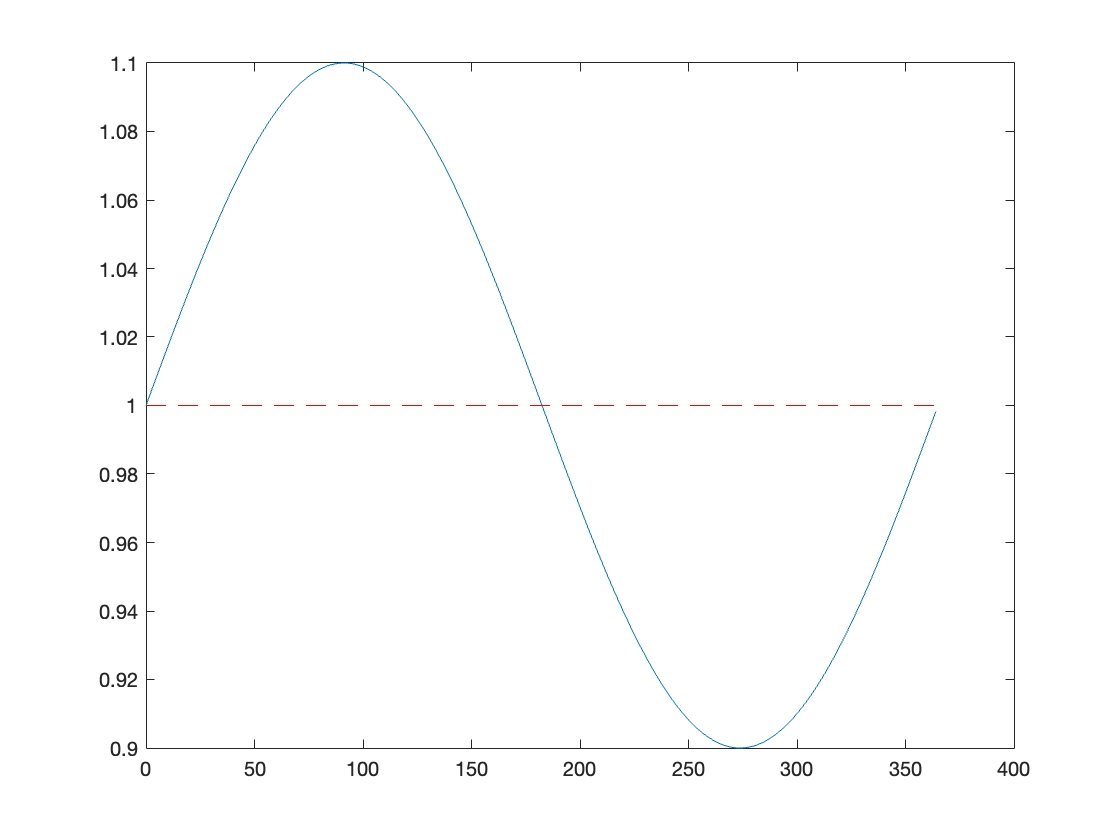
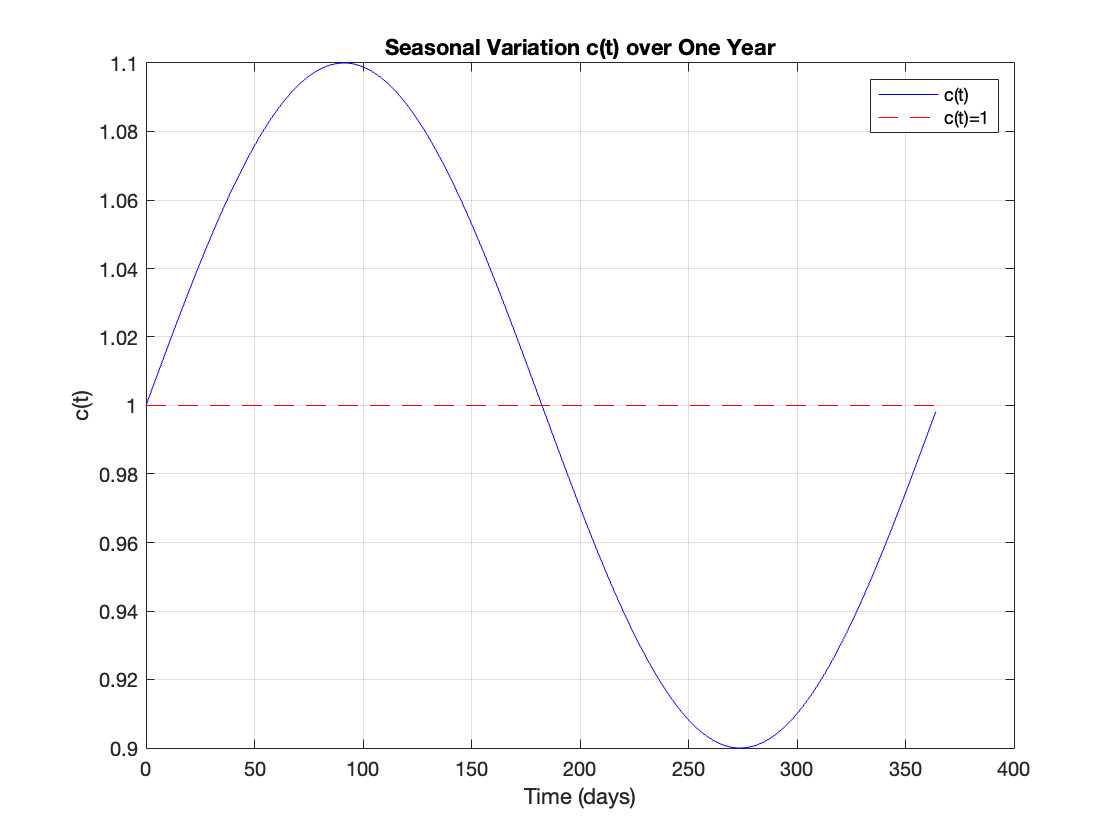
seasonality comparison first update

diff --git a/matlab/seasonality_comparison_vs_nonseasonality.m b/matlab/seasonality_comparison_vs_nonseasonality.m
@@ -1,5 +1,4 @@
 
-
 % Define parameters
 gamma = 1.41e-4;
 sigma = 0.9; % Different sigma values for comparison
@@ -22,7 +21,8 @@ p0 = 0.95;
 tspan = [0, 365*11];
 
 % Simulation and Plotting
-    [T, Z] = ode45(@(t, y) diseaseDynamics(t, y, mu, alpha_hat, k_theta, gamma, sigma,beta,v), tspan, [S0 I0 p0]);
+    [T, Z] = ode45(@(t, y) seasonalityDynamics(t, y, mu, alpha_hat, k_theta, gamma, sigma,beta,v), tspan, [S0 I0 p0]);
+    [K,M] = ode45(@(t, y) nonseasonalityDynamics(t, y, mu, alpha_hat, k_theta, gamma, sigma,beta,v), tspan, [S0 I0 p0]);
     
 % Plots
 figure;
@@ -31,13 +31,18 @@ plot(T/365, R_0*Z(:,1)); % R_E(t) = R_0*S(t)
 title('R_E(t) vs t');
 xlabel('time');
 ylabel('R_E(t)');
+hold on;
+plot(K/365, R_0*M(:,1)); % R_E(t) = R_0*S(t)
+legend('with seasonality', 'without seasonality');
 
 subplot(1,2,2);
 plot(T/365, Z(:,2));
 title('I(t) vs t');
 xlabel('time');
 ylabel('I(t)');
-
+hold on;
+plot(K/365, R_0*M(:,2)); % R_E(t) = R_0*S(t)
+legend('with seasonality', 'without seasonality');
 %subplot(1,3,3);
 %plot(T/365, Y(:,3));
 %title('p(t) vs t');
@@ -48,7 +53,7 @@ ylabel('I(t)');
 %legend('p(t)', 'p_c');
 
 % Differential equations function
-function dydt = diseaseDynamics(t, y, mu, alpha_hat, k_theta, gamma_hat, sigma, beta, v)
+function dydt = seasonalityDynamics(t, y, mu, alpha_hat, k_theta, gamma_hat, sigma, beta, v)
     S = y(1);
     I = y(2);
     p = y(3);
@@ -63,6 +68,24 @@ function dydt = diseaseDynamics(t, y, mu, alpha_hat, k_theta, gamma_hat, sigma, 
     % System of equations
     dSdt = mu * (1 - p_3) - c_t * beta * S * I - mu * S;
     dIdt = c_t * beta * S * I - (mu + v) * I;
+    dpdt = k_theta*(1-p_3) * ((I - alpha_hat*p_3)*p_3 + gamma_hat);
+    
+    dydt = [dSdt; dIdt; dpdt];
+end
+
+function dydt = nonseasonalityDynamics(t, y, mu, alpha_hat, k_theta, gamma_hat, sigma, beta, v)
+    S = y(1);
+    I = y(2);
+    p = y(3);
+    p_3 = 0.90;    
+    % Define c(t) with sigma
+    
+    T = 365;        % The period of the function, one year
+    C = 0;          % Phase shift (in days)
+    
+    % System of equations
+    dSdt = mu * (1 - p_3) - beta * S * I - mu * S;
+    dIdt = beta * S * I - (mu + v) * I;
     dpdt = k_theta*(1-p_3) * ((I - alpha_hat*p_3)*p_3 + gamma_hat);
     
     dydt = [dSdt; dIdt; dpdt];

diff --git a/matlab/seasonality_with_different_amplitudes.m b/matlab/seasonality_with_different_amplitudes.m
@@ -1,0 +1,67 @@
+% Define common parameters
+gamma = 1.41e-4;
+sigma = 0.9;
+mu = 1/(11*365);
+v = 1/7;
+R_0 = 15;
+beta = R_0*(mu+v);
+p_3 = 0.90;
+p_c = 0.933;
+gamma_hat = 0;
+alpha_hat = 0.091e-4;
+k_theta = 40;
+
+% Initial conditions
+S0 = 1.04/R_0;
+I0 = 0.82e-5;
+p0 = 0.95;
+
+% Time span
+tspan = [0, 365*11];
+
+% Amplitude values to test
+epsilon_values = [ 0.01, 0.1, 0.5, 1.2];
+
+% Prepare figure for subplotting
+figure;
+
+% Loop through each amplitude value
+for i = 1:length(epsilon_values)
+    epsilon = epsilon_values(i);
+    
+    % Solve the ODEs with the current amplitude value
+    [T, Z] = ode45(@(t, y) diseaseDynamics(t, y, mu, alpha_hat, k_theta, gamma, sigma, beta, v, epsilon, R_0, p_3), tspan, [S0 I0 p0]);
+    
+    % Subplot for R_E(t)
+    subplot(4, 2, i * 2 - 1);
+    plot(T/365, R_0*Z(:,1));
+    title(['R_E(t) vs t for \epsilon = ', num2str(epsilon)]);
+    xlabel('Time (years)');
+    ylabel('R_E(t)');
+    
+    % Subplot for I(t)
+    subplot(4, 2, i * 2);
+    plot(T/365, Z(:,2));
+    title(['I(t) vs t for \epsilon = ', num2str(epsilon)]);
+    xlabel('Time (years)');
+    ylabel('I(t)');
+end
+
+% Differential equations function definition
+function dydt = diseaseDynamics(t, y, mu, alpha_hat, k_theta, gamma_hat, sigma, beta, v, epsilon, R_0, p_3)
+    S = y(1);
+    I = y(2);
+    p = y(3);
+    
+    % Define c(t) with the current amplitude value
+    T = 365;        % The period of the function, one year
+    C = 0;          % Phase shift (in days)
+    c_t = epsilon * sin(2*pi*(t - C)/T) + 1;
+
+    % System of equations
+    dSdt = mu * (1 - p_3) - c_t * beta * S * I - mu * S;
+    dIdt = c_t * beta * S * I - (mu + v) * I;
+    dpdt = k_theta*(1-p_3) * ((I - alpha_hat*p_3)*p_3 + gamma_hat);
+    
+    dydt = [dSdt; dIdt; dpdt];
+end

diff --git a/matlab/c_t_plot.m b/matlab/c_t_plot.m
@@ -2,22 +2,27 @@
 epsilon = 0.1;  % The amplitude of the seasonal variation
 T = 365;        % The period of the function, one year
 C = 0;          % Phase shift (in days)
+sigma = 0.2;    % Define sigma (you need to specify an appropriate value)
 
 % Time vector for one year with daily resolution
 t = 0:1:T-1;  % time vector from day 0 to day 364
 
 % Define c(t)
 c_t = epsilon * sin(2*pi*(t - C)/T) + 1;
+c_t_old = (1 - sigma) * sin(2*pi*t/365) + 1 + sigma;
 
+% Plot c(t), c_t, and c_t_old in one figure
 figure;
-plot(t, c_t);
+plot(t, c_t, 'b');      % Plot c_t in blue
 hold on; 
-plot(t, ones(size(t)), 'r--'); 
+plot(t, ones(size(t)), 'r--'); % Plot c(t)=1 in red dashed line
+
 hold off; 
-% Plot c(t)
-figure;
-plot(t, c_t);
+
+% Add labels and title
 xlabel('Time (days)');
 ylabel('c(t)');
 title('Seasonal Variation c(t) over One Year');
 grid on;
+legend('c(t)', 'c(t)=1'); % Add a legend
+

diff --git a/matlab/seasonaality_approach_unlagged_model.m b/matlab/seasonaality_approach_unlagged_model.m
@@ -51,7 +51,7 @@ function dydt = dynamics(t, y, mu, v, beta,theta,k)
     S = y(1); % Susceptible population
     I = y(2); % Infected population
     p = y(3); % Perception, which is equivalent to p_3 but dynamic
-    sigma=0.9;
+    sigma=0.1;
       c_t = (1 - sigma) * sin(2*pi*t/365) + 1 + sigma;
     % Calculate the derivatives
     dSdt = mu * (1 - p) - mu * S - beta * S * I *c_t ;
